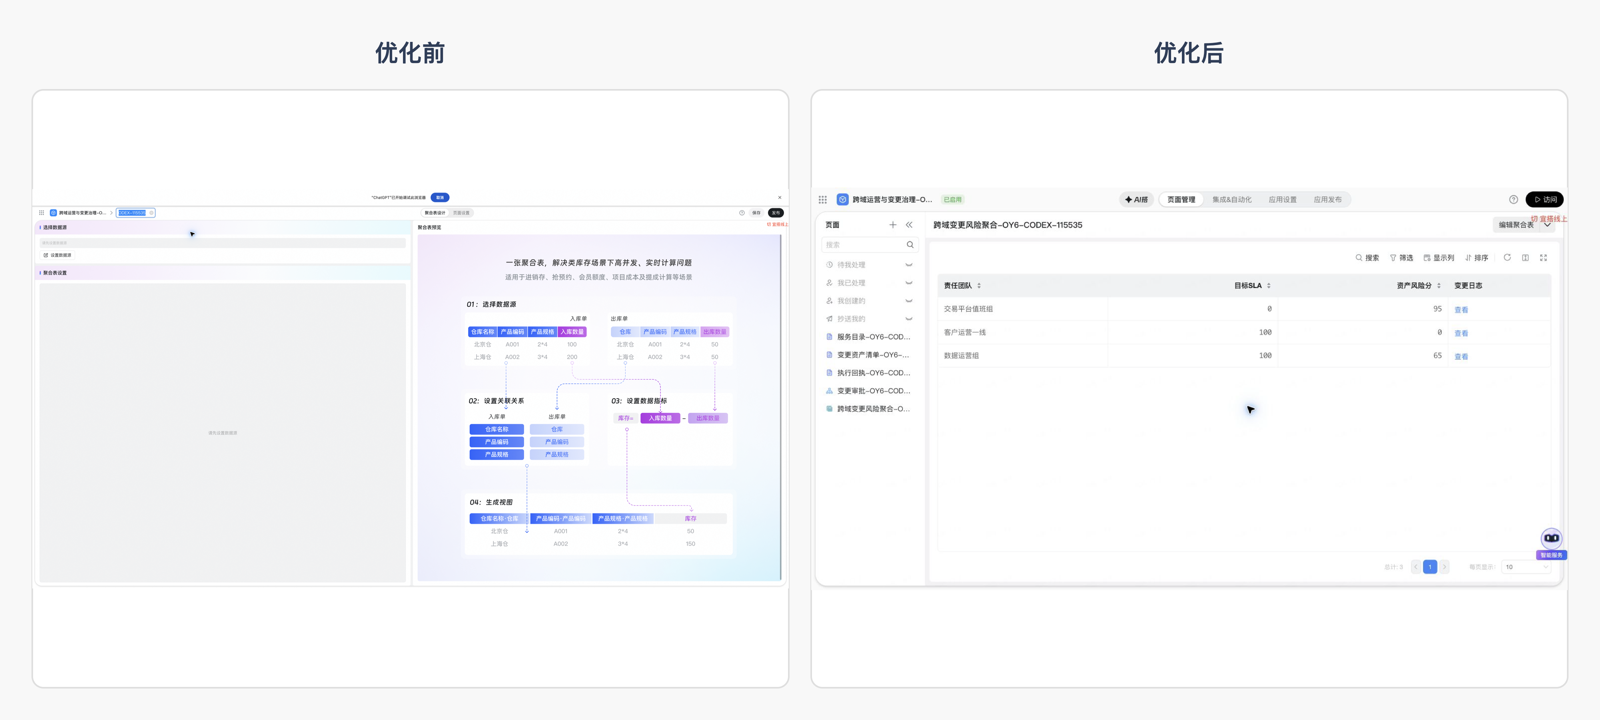
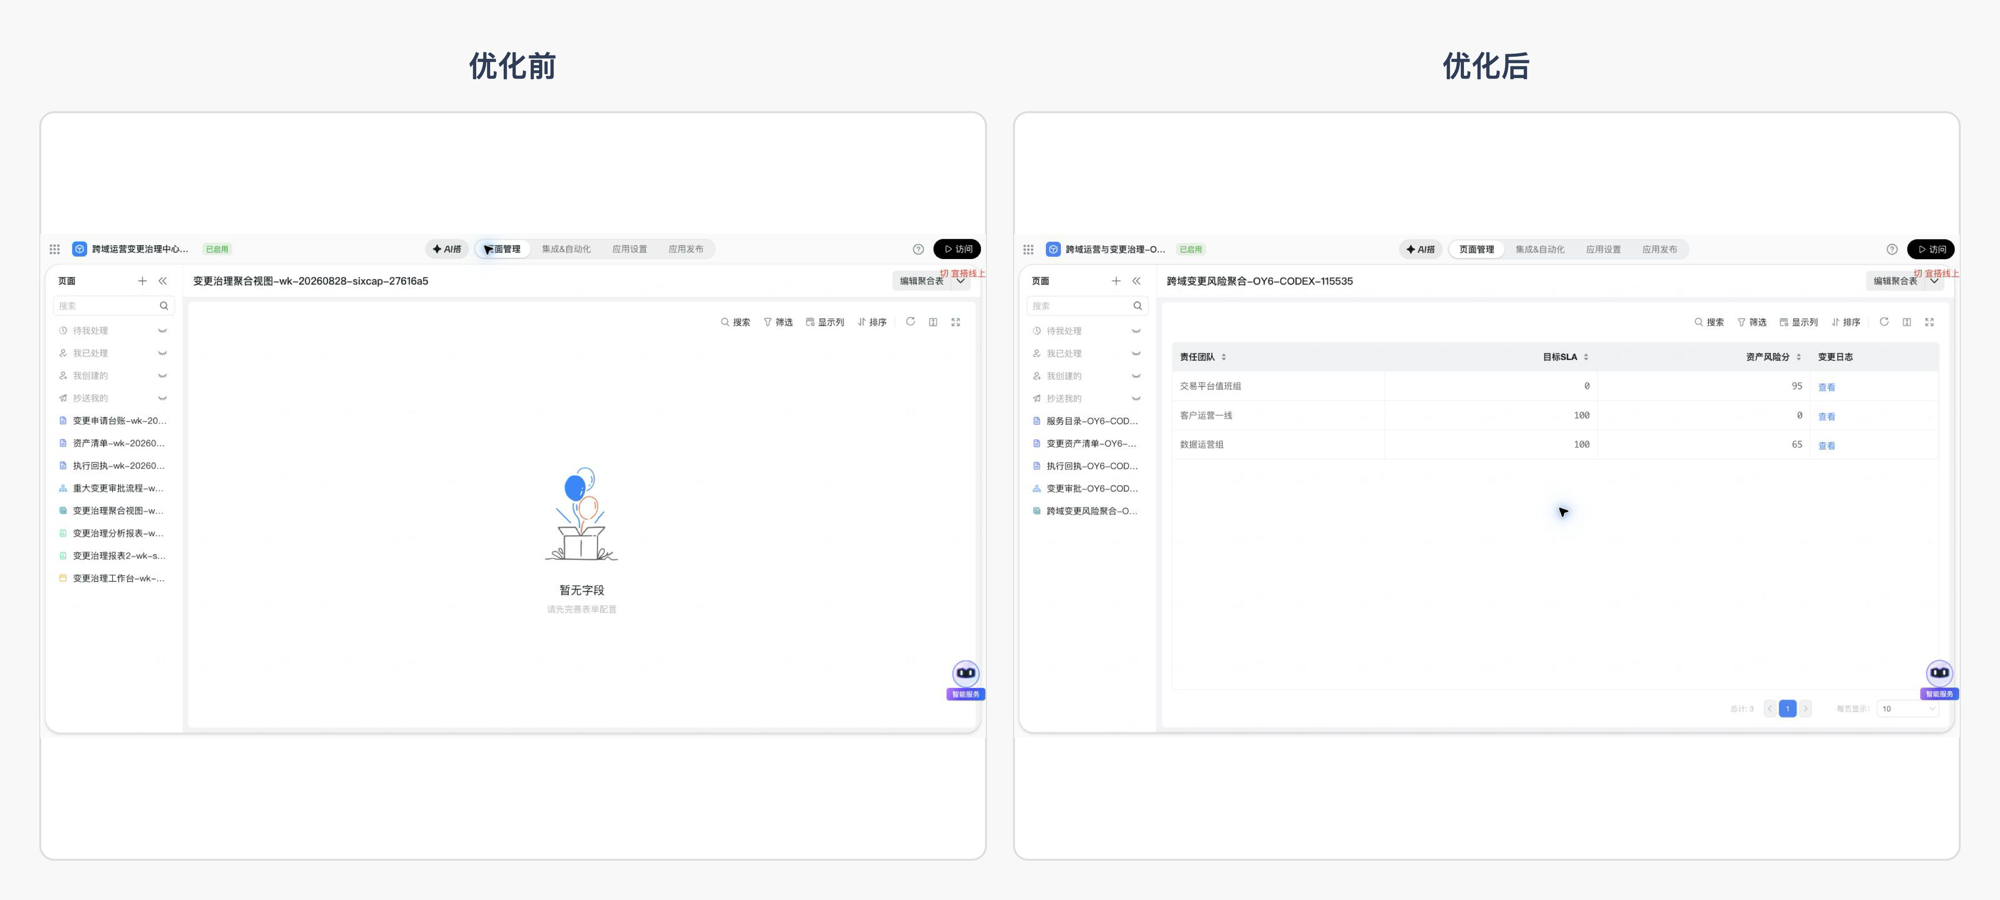
docs: correct process and aggregate report comparisons to #83584385

diff --git a/docs/reports/openyida-weekly-human-report-2026-08-28.md b/docs/reports/openyida-weekly-human-report-2026-08-28.md
@@ -30,7 +30,7 @@
 | 场景 | 一句话问题描述 | 原来现象 | 优化后现象 | 业务价值 |
 |---|---|---|---|---|
 | 登录完成页 | 登录完成后的反馈过于简陋 | 英文纯文本铺在空白页面中，缺少品牌、完成状态和后续提示 | 使用中文品牌化成功卡片，明确身份验证完成，并提示窗口将自动关闭 | 用户能一眼确认结果，减少“是否登录成功”的疑惑 |
-| 审批流程 | 复杂业务分流表达不足 | 只有两个主要分支，部分回执配置在画布上看起来未完成 | 增加三类明确条件和默认路径，形成 25 个业务节点的完整流程 | 能覆盖重大变更、紧急变更、常规变更及兜底场景 |
+| 审批流程 | 复杂业务分流表达不足 | 原流程以线性串行为主，缺少明确的多分支条件 | 增加三类明确条件和默认路径，形成 25 个业务节点的完整流程 | 能覆盖重大变更、紧急变更、常规变更及兜底场景 |
 | 集成自动化 | 已有配置在画布中表达不清 | 新增、更新等动作虽然已有内容，但摘要仍像“待配置” | 查询、新增、更新、消息通知等节点都能显示清晰配置摘要 | 运营人员可以直接从画布判断每一步要做什么 |
 | 聚合表 | 聚合结果为空 | 设计页没有数据源和指标，运行页无法展示业务结果 | 接入两个数据源、一个关联关系和两个指标，运行页展示 3 条聚合结果 | 可直接呈现团队、目标和风险指标，支撑管理判断 |
 | 原生报表 | 数据不足且出现查询异常 | 报表页提示数据查询异常，缺少可讲解的图表和明细 | 补充到 14 条业务数据，展示指标、趋势、柱状图、饼图、漏斗和明细表 | 报表从“无法展示”升级为可用于汇报的业务看板 |
